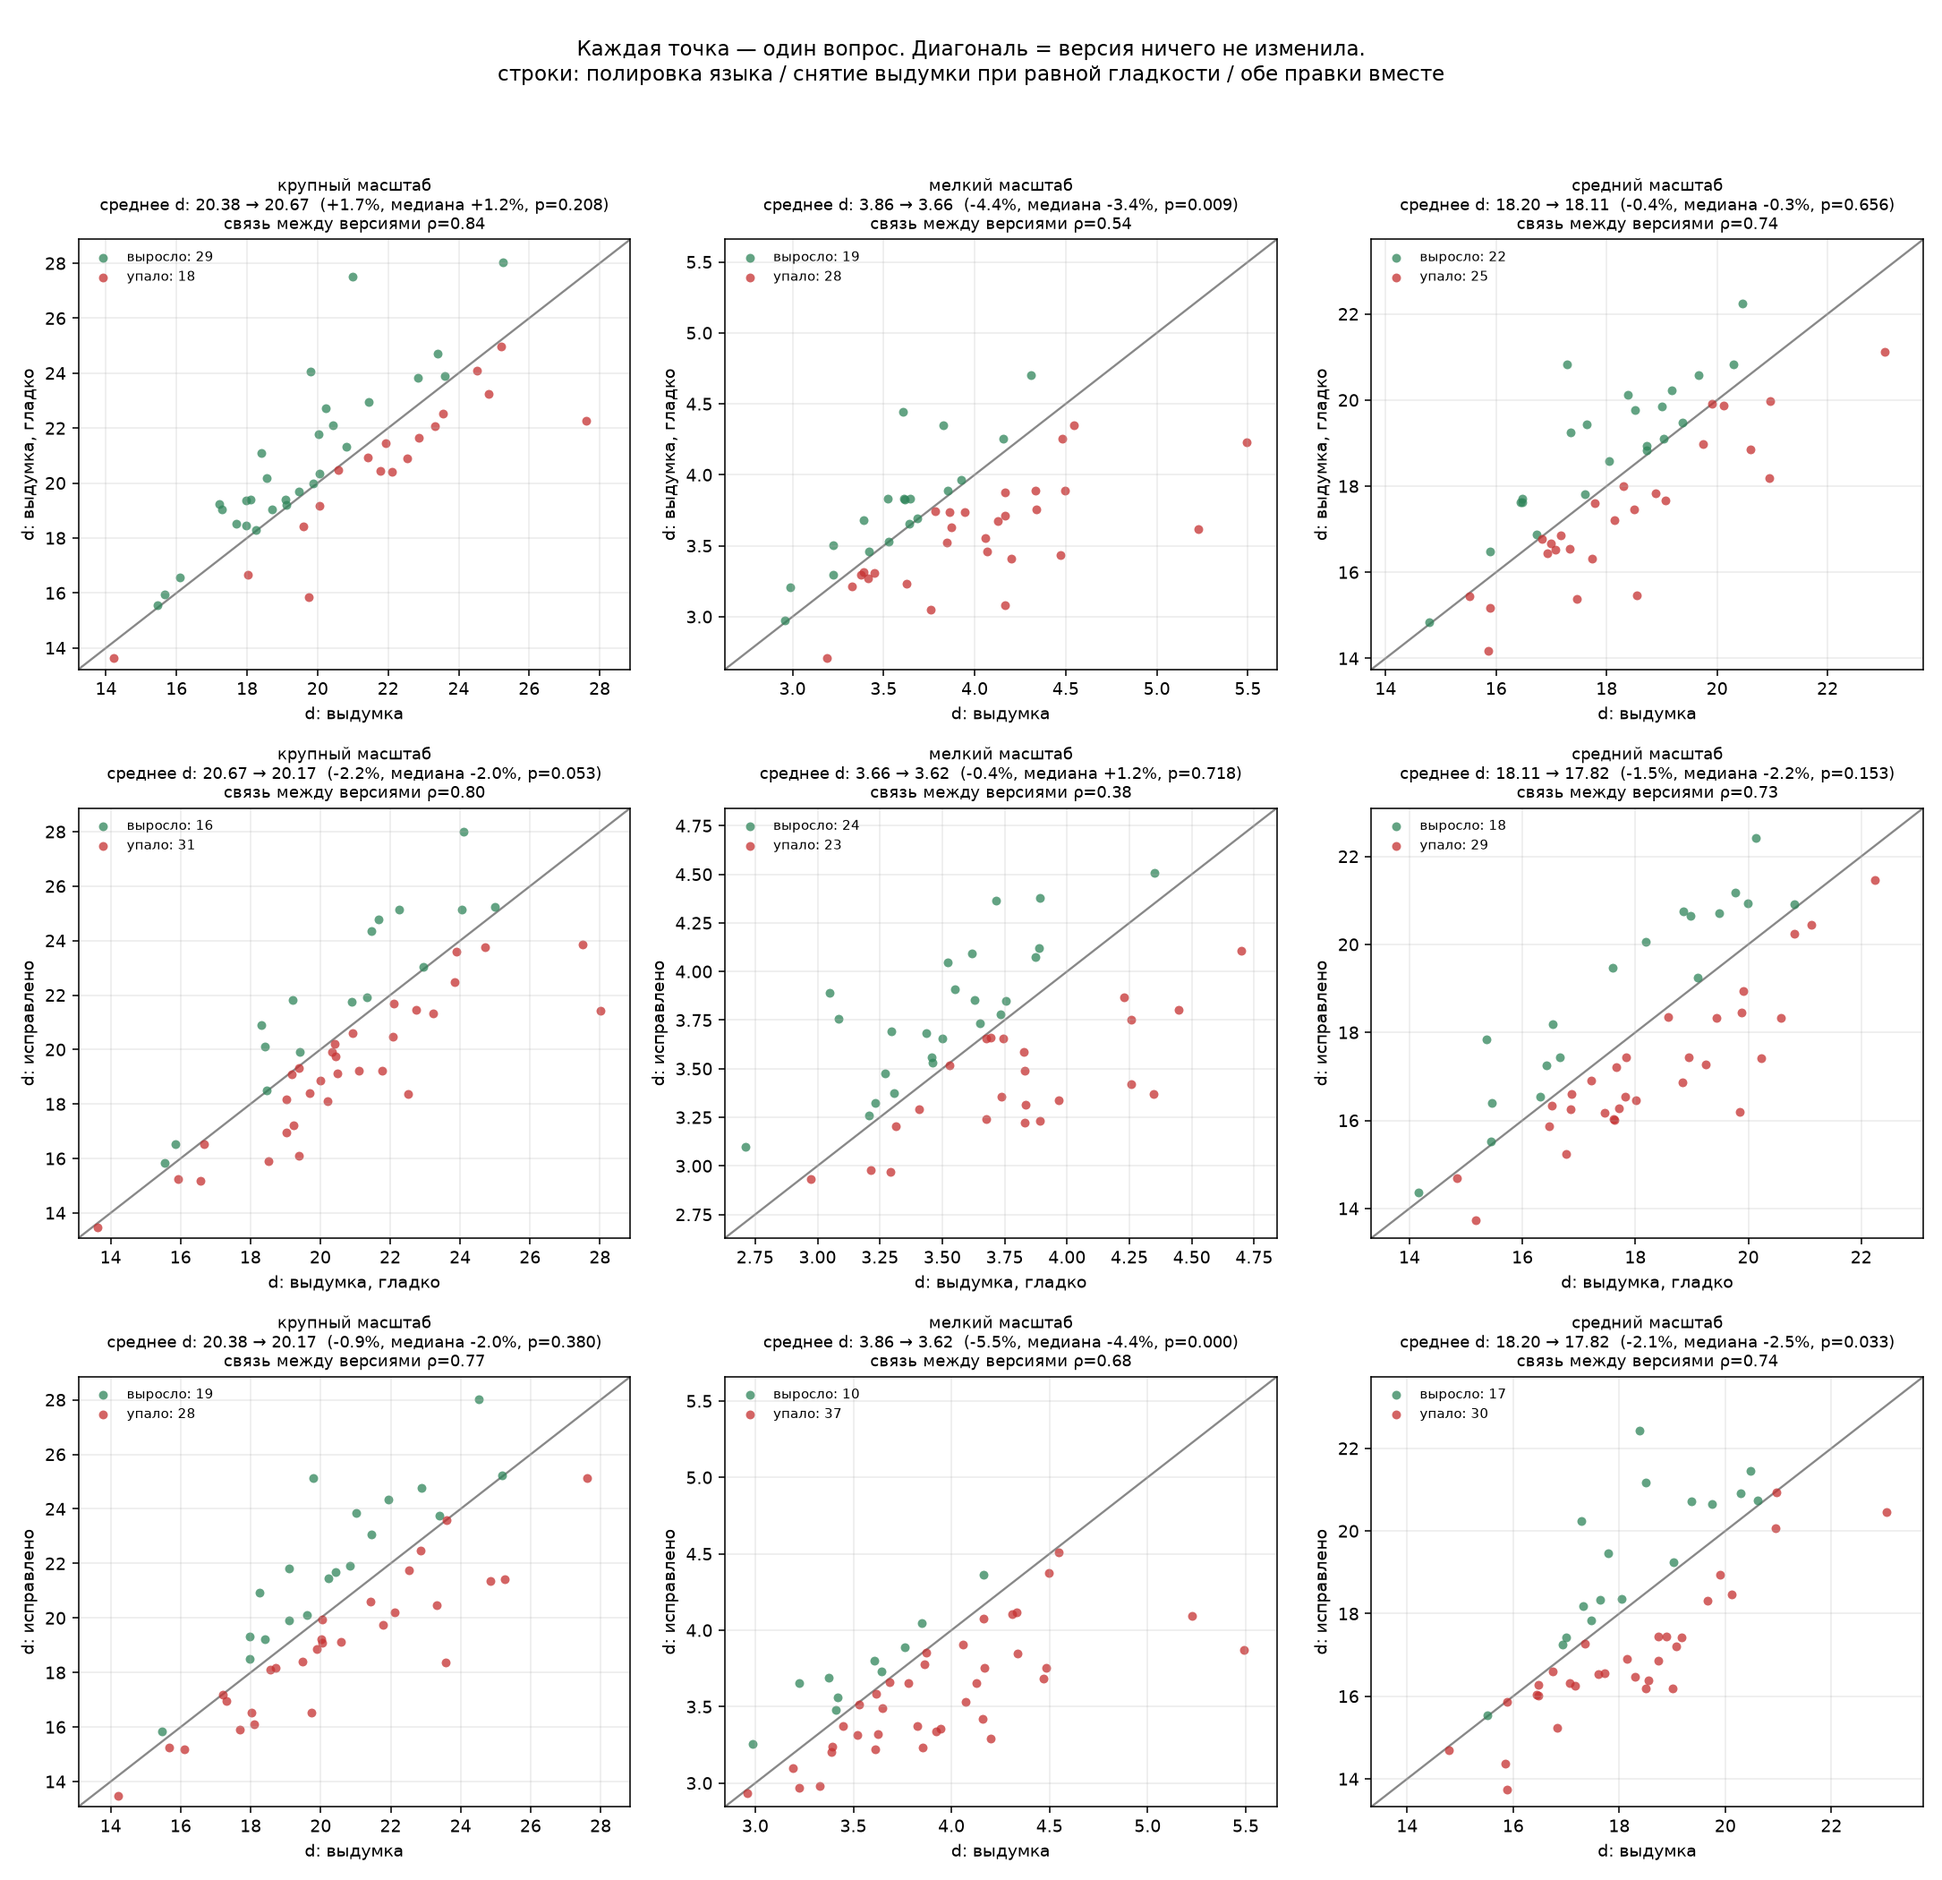
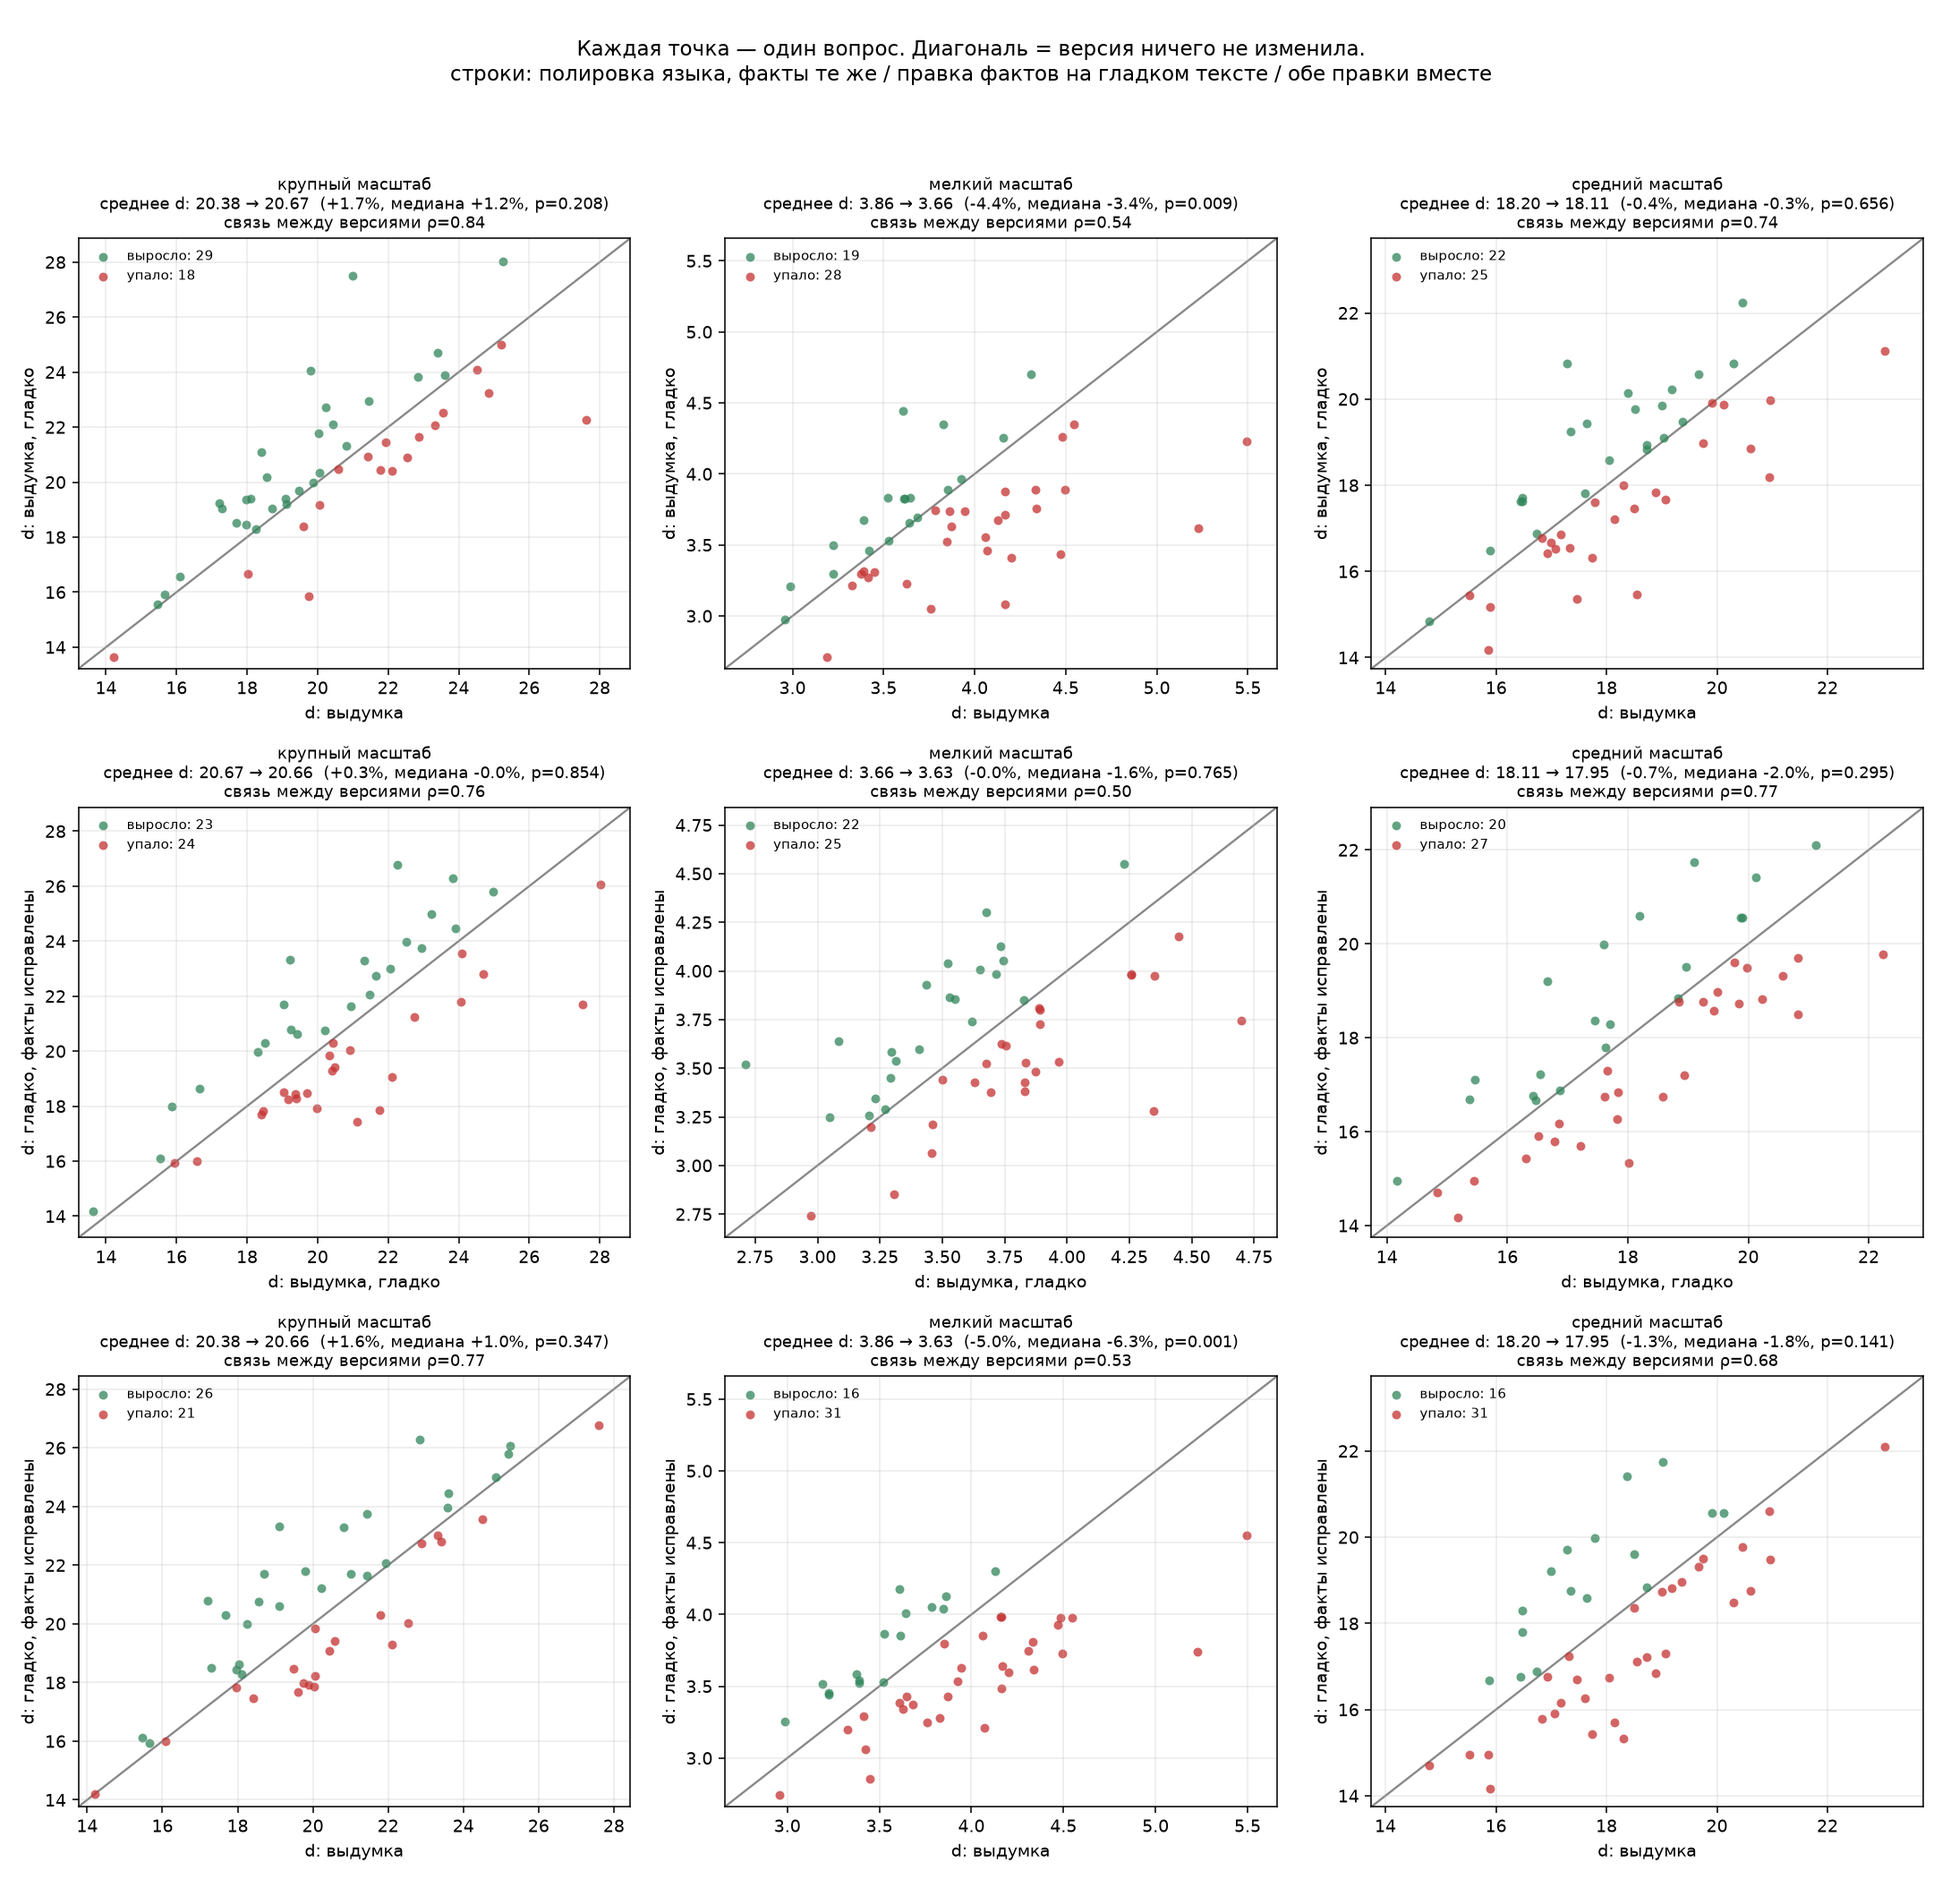
Scatter the fact correction on its own, and rebuild the grid around the chain
The grid now walks the chain -- polish, then correct, then both -- so every row
is one edit on a fixed starting point. A second figure isolates the step the
experiment exists for: the same polished sentences before and after their false
claims are removed.

Nothing moves. Across the three bands the split is 23/24, 22/25 and 20/27 and
every median sits within two per cent of the diagonal.

diff --git a/phdq_ext/experiments/halluc_scatter.py b/phdq_ext/experiments/halluc_scatter.py
@@ -25,8 +25,14 @@ from halluc_result import CJK, LABEL, VERSIONS, bands
 from three_bands import BANDS
 
 BASE = os.path.join(HERE, "..")
-PAIRS = [("raw", "polished"), ("polished", "fixed"), ("raw", "fixed")]
-SHORT = {"raw": "выдумка", "polished": "выдумка, гладко", "fixed": "исправлено"}
+# the chain, so each row is one edit on a fixed starting point
+PAIRS = [("raw", "polished"), ("polished", "chained"), ("raw", "chained")]
+SHORT = {"raw": "выдумка", "polished": "выдумка, гладко",
+         "chained": "гладко, факты исправлены",
+         "fixed": "правка из исходника"}
+ROW = ["полировка языка, факты те же",
+       "правка фактов на гладком тексте",
+       "обе правки вместе"]
 
 
 def main():
@@ -37,8 +43,20 @@ def main():
     D = D[(D["d_hat"] > 0) & ~D["qid"].isin(bad)]
     W = bands(D).pivot(index="qid", columns="version")
 
-    fig, axes = plt.subplots(3, 3, figsize=(15.5, 15))
-    for i, (a, b) in enumerate(PAIRS):
+    grid(W, PAIRS, "halluc_scatter.png",
+         "Каждая точка — один вопрос. Диагональ = версия ничего не изменила.\n"
+         "строки: " + " / ".join(ROW))
+    # the contrast the experiment exists for, on its own
+    grid(W, [("polished", "chained")], "halluc_scatter_facts.png",
+         "Гладкий текст до и после правки фактов — язык не менялся.\n"
+         "Каждая точка — один вопрос; диагональ = размерность не сдвинулась")
+    print(f"({len(W)} вопросов)")
+
+
+def grid(W, pairs, fname, suptitle):
+    fig, axes = plt.subplots(len(pairs), 3, squeeze=False,
+                             figsize=(15.5, 5 * len(pairs)))
+    for i, (a, b) in enumerate(pairs):
         for j, band in enumerate(BANDS):
             ax = axes[i][j]
             col = W[band]
@@ -67,13 +85,12 @@ def main():
                          f"связь между версиями ρ={r:.2f}", fontsize=9)
             ax.legend(fontsize=7.5, loc="upper left", frameon=False)
             ax.grid(alpha=.25)
-    fig.suptitle("Каждая точка — один вопрос. Диагональ = версия ничего не "
-                 "изменила.\nстроки: полировка языка / снятие выдумки при "
-                 "равной гладкости / обе правки вместе", fontsize=12)
-    fig.tight_layout(rect=(0, 0, 1, 0.955))
-    path = os.path.join(BASE, "figures", "halluc_scatter.png")
+    fig.suptitle(suptitle, fontsize=12)
+    fig.tight_layout(rect=(0, 0, 1, 1 - 0.045 / len(pairs) * 3))
+    path = os.path.join(BASE, "figures", fname)
     fig.savefig(path, dpi=140)
-    print("saved", os.path.relpath(path, BASE), f"({len(W)} вопросов)")
+    plt.close(fig)
+    print("saved", os.path.relpath(path, BASE))
 
 
 if __name__ == "__main__":
